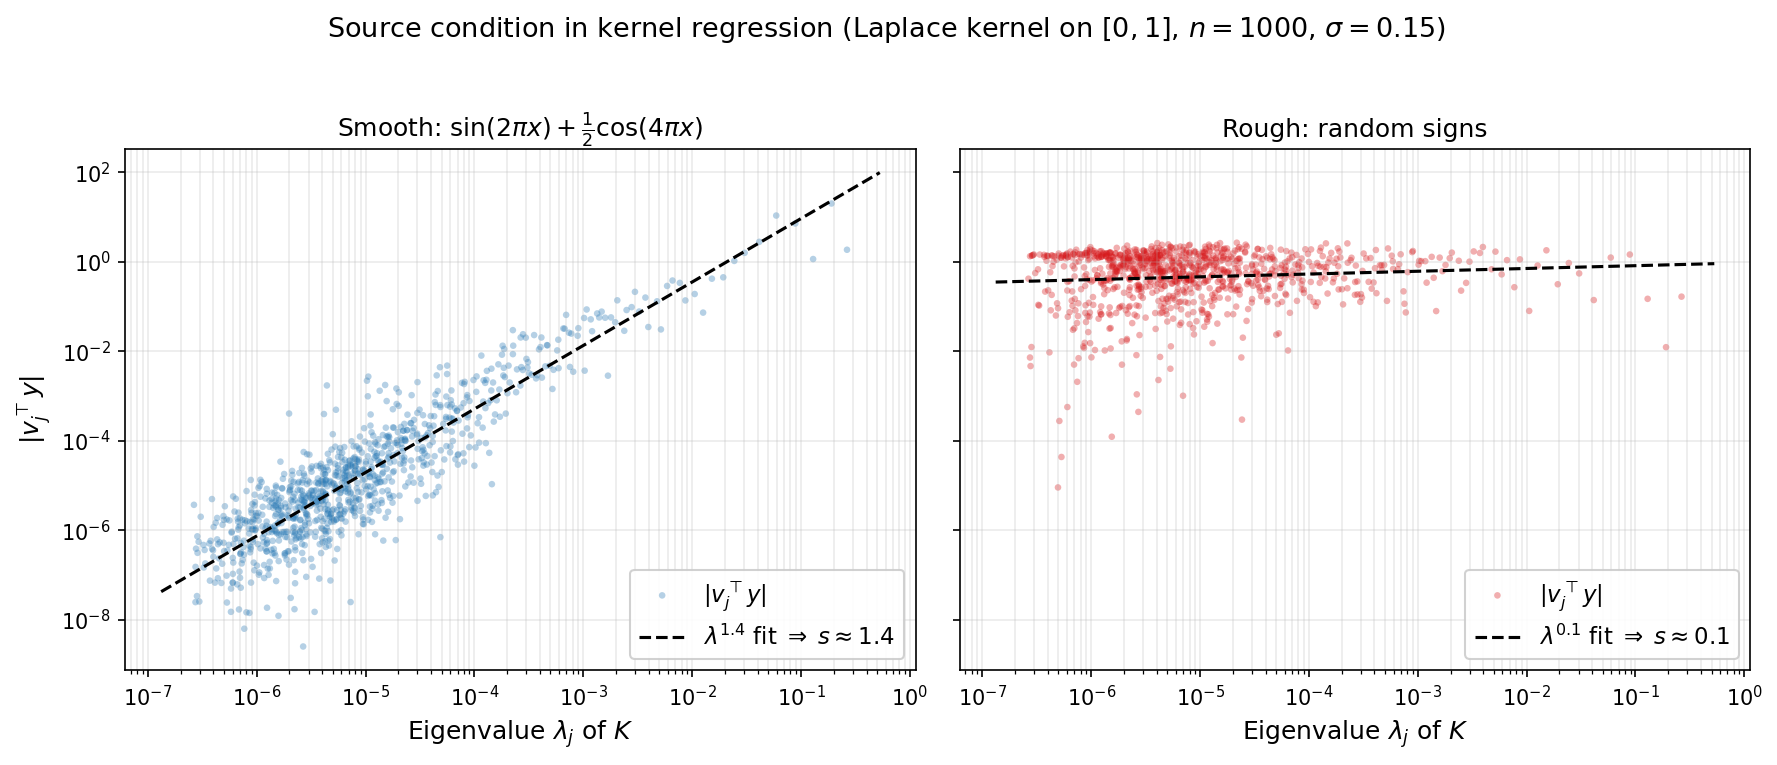
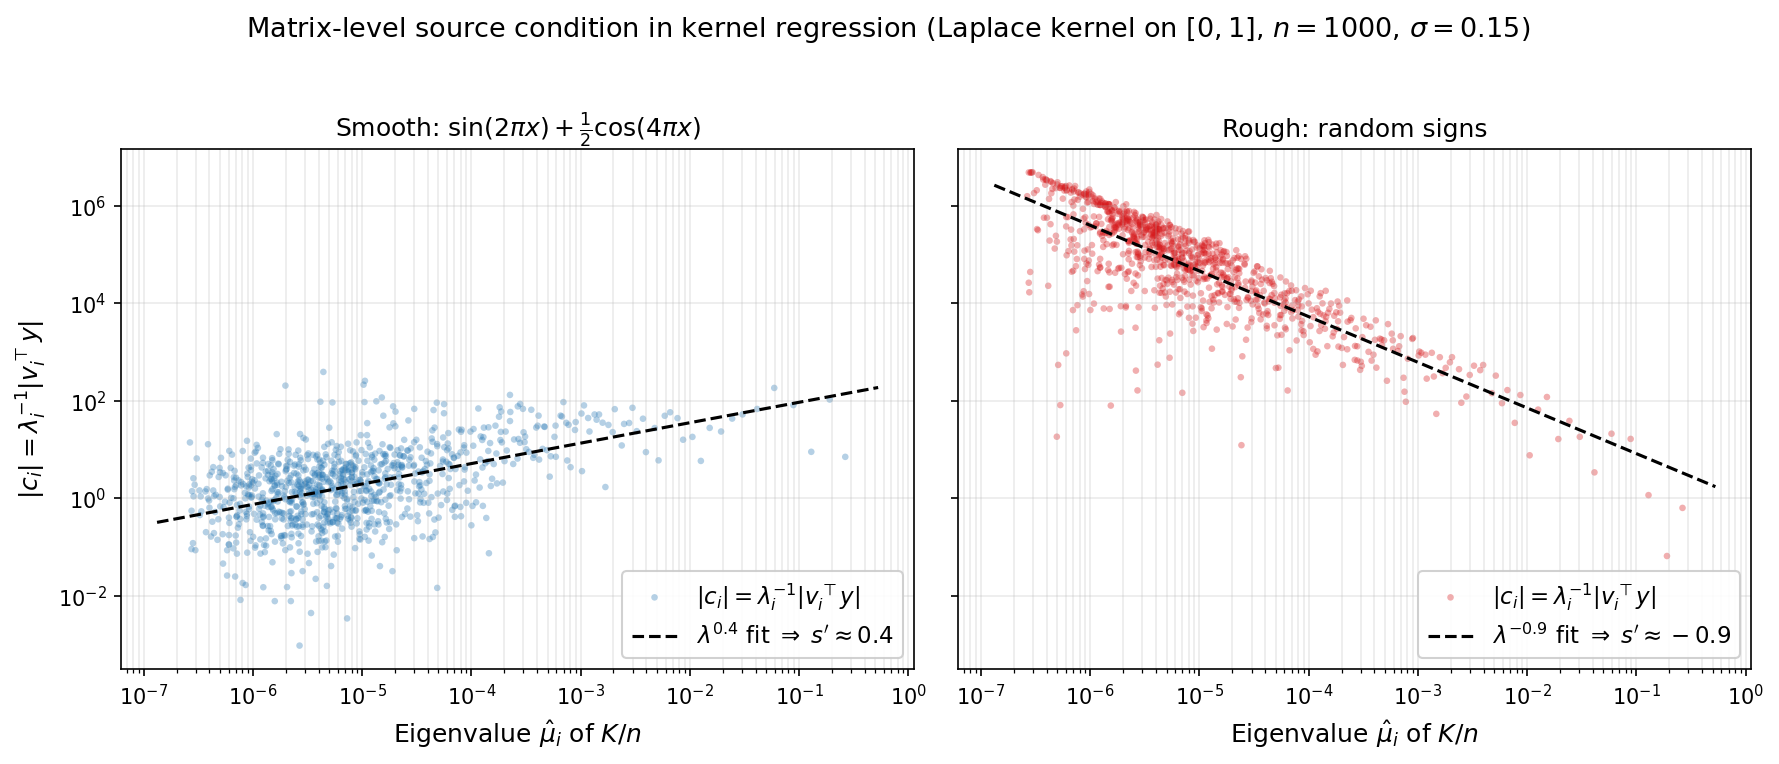
Fix source condition example: correct Sobolev equivalence, notation, and operator-to-matrix derivation
- Rename target function from f* to h to avoid notation clash with optimal value
- Replace incorrect pointwise Sobolev bound with correct weighted ℓ² condition
- Soften Fourier basis claim, add fractional Sobolev note
- Add careful derivation of operator-to-matrix translation (exponent shift s'=s-1)
- Plot matrix-level coefficients |c_i| instead of |v_i^T y|; use K/n eigenvalues
- Fix equation numbering so (13) appears before (14)
- Note s>1 threshold for improved convergence rate

Made-with: Cursor

diff --git a/scripts/plot_source_condition.py b/scripts/plot_source_condition.py
@@ -1,9 +1,9 @@
 """
-Illustrate the function-level source condition on [0,1] with uniform data.
+Illustrate the matrix-level source condition on [0,1] with uniform data.
 
-We plot the coefficients |v_j^T y| of the sampled target vector in the kernel
-eigenbasis. For a smooth target, these decay like lambda_j^s; for a rough
-target they do not.
+We plot the initial-error coefficients |c_i| = lambda_i^{-1} |v_i^T y| in the
+kernel eigenbasis.  For a smooth target, these decay like lambda_i^{s'} where
+s' = s - 1 is the matrix-level source exponent; for a rough target they do not.
 """
 
 import numpy as np
@@ -51,44 +51,48 @@ def main():
     proj_s = np.abs(eigvecs.T @ y_smooth)
     proj_r = np.abs(eigvecs.T @ y_rough)
 
+    # Matrix-level coefficients: |c_i| = lambda_i^{-1} |v_i^T y|
+    c_s = proj_s / eigvals
+    c_r = proj_r / eigvals
+
     keep = eigvals > 1e-6 * eigvals[0]
     ev = eigvals[keep]
-    ps = proj_s[keep]
-    pr = proj_r[keep]
+    cs = c_s[keep]
+    cr = c_r[keep]
 
-    s_smooth, b_s = fit_power_law(ev, ps)
-    s_rough, b_r = fit_power_law(ev, pr)
-    print(f"  smooth target: slope s ≈ {s_smooth:.2f}")
-    print(f"  rough target:  slope s ≈ {s_rough:.2f}")
+    s_smooth, b_s = fit_power_law(ev, cs)
+    s_rough, b_r = fit_power_law(ev, cr)
+    print(f"  smooth target: matrix-level slope s' ≈ {s_smooth:.2f}")
+    print(f"  rough target:  matrix-level slope s' ≈ {s_rough:.2f}")
 
-    make_plot(ev, ps, pr, s_smooth, s_rough, b_s, b_r, sigma, n)
+    make_plot(ev, cs, cr, s_smooth, s_rough, b_s, b_r, sigma, n)
 
 
-def make_plot(ev, ps, pr, s_smooth, s_rough, b_s, b_r, sigma, n):
+def make_plot(ev, cs, cr, s_smooth, s_rough, b_s, b_r, sigma, n):
     fig, axes = plt.subplots(1, 2, figsize=(12, 5), sharey=True)
 
-    for ax, proj, slope, intercept, s_val, label, color in [
-        (axes[0], ps, s_smooth, b_s, s_smooth,
+    for ax, coeffs, slope, intercept, s_val, label, color in [
+        (axes[0], cs, s_smooth, b_s, s_smooth,
          r"Smooth: $\sin(2\pi x)+\frac{1}{2}\cos(4\pi x)$", "#2c7bb6"),
-        (axes[1], pr, s_rough, b_r, s_rough, "Rough: random signs", "#d7191c"),
+        (axes[1], cr, s_rough, b_r, s_rough, "Rough: random signs", "#d7191c"),
     ]:
-        ax.scatter(ev, proj, s=10, alpha=0.35, color=color, edgecolors="none",
-                   label=r"$|v_j^\top y|$")
+        ax.scatter(ev, coeffs, s=10, alpha=0.35, color=color, edgecolors="none",
+                   label=r"$|c_i| = \lambda_i^{-1}|v_i^\top y|$")
 
         lam_range = np.array([ev[-1] * 0.5, ev[0] * 2])
         ax.loglog(lam_range, np.exp(intercept) * lam_range ** slope,
                   "k--", linewidth=1.5,
                   label=(rf"$\lambda^{{{slope:.1f}}}$ fit "
-                         rf"$\Rightarrow\; s \approx {s_val:.1f}$"))
+                         rf"$\Rightarrow\; s' \approx {s_val:.1f}$"))
 
-        ax.set_xlabel(r"Eigenvalue $\lambda_j$ of $K$", fontsize=12)
+        ax.set_xlabel(r"Eigenvalue $\hat\mu_i$ of $K/n$", fontsize=12)
         ax.set_title(label, fontsize=12)
         ax.legend(fontsize=11, framealpha=0.9, loc="lower right")
         ax.grid(True, alpha=0.25, which="both")
 
-    axes[0].set_ylabel(r"$|v_j^\top y|$", fontsize=12)
+    axes[0].set_ylabel(r"$|c_i| = \lambda_i^{-1}|v_i^\top y|$", fontsize=12)
     fig.suptitle(
-        rf"Source condition in kernel regression "
+        rf"Matrix-level source condition in kernel regression "
         rf"(Laplace kernel on $[0,1]$, $n={n}$, $\sigma={sigma}$)",
         fontsize=13, y=1.02,
     )

diff --git a/week1.md b/week1.md
@@ -778,7 +778,7 @@ In the eigenbasis, this means $c_i = \lambda_i^s\,\tilde{c}_i$ where $\tilde{c}_
 **Example (Source conditions in kernel regression).**
 The source condition arises naturally in kernel regression, where it is equivalent to a classical smoothness condition on the target function.
 
-**Setup.** Suppose data points $x_1,\dots,x_n$ are drawn i.i.d. from the uniform distribution on $[0,1]$, and the labels are generated by an unknown function: $y_i = f^\ast(x_i)$. As recalled in Section 5, kernel regression solves the linear system $K\alpha = y$, where $K_{ij} = k(x_i,x_j)$ is the kernel matrix and $y = (y_1,\dots,y_n)^\top$. The question is: when does the source condition hold for this problem, and what does it say about $f^\ast$? To answer this, we pass through the continuous integral operator associated with the kernel, which serves as the large-$n$ limit of the linear system.
+**Setup.** Suppose data points $x_1,\dots,x_n$ are drawn i.i.d. from the uniform distribution on $[0,1]$, and the labels are generated by an unknown function: $y_i = h(x_i)$. As recalled in Section 5, kernel regression solves the linear system $K\alpha = y$, where $K_{ij} = k(x_i,x_j)$ is the kernel matrix and $y = (y_1,\dots,y_n)^\top$. The question is: when does the source condition hold for this problem, and what does it say about $h$? To answer this, we pass through the continuous integral operator associated with the kernel, which serves as the large-$n$ limit of the linear system.
 
 **The integral operator.** The kernel $k$ and the data distribution $\nu$ define an **integral operator** $T\colon L^2(\nu) \to L^2(\nu)$ by
 $$
@@ -792,17 +792,33 @@ with eigenfunctions $\phi_i$ forming an orthonormal basis for $L^2(\nu)$. For th
 
 ![Eigenfunctions of the Laplace kernel operator](figures/laplace_eigenfunctions.gif)
 
-**Source condition as smoothness/lack of oscillations.** Any function $f^\ast \in L^2(\nu)$ can be expanded in the eigenbasis as $f^\ast = \sum_i \hat{f}_i\,\phi_i$. The source condition $f^\ast = T^s g$ with $\|g\|_{L^2(\nu)} \leq M$ reads, in the eigenbasis, as
+**Source condition as smoothness/lack of oscillations.** Any function $h \in L^2(\nu)$ can be expanded in the eigenbasis as $h = \sum_i \hat{h}_i\,\phi_i$. The source condition $h = T^s g$ with $\|g\|_{L^2(\nu)} \leq M$ reads, in the eigenbasis, as
 $$
-\hat{f}_i = \mu_i^s\,\hat{g}_i, \qquad \sum_i \hat{g}_i^2 \leq M^2,
+\hat{h}_i = \mu_i^s\,\hat{g}_i, \qquad \sum_i \hat{g}_i^2 \leq M^2,
 $$
-where $\hat{f}_i := \langle f^\ast, \phi_i \rangle_{L^2(\nu)}$ and $\hat{g}_i := \langle g, \phi_i \rangle_{L^2(\nu)}$ are the coefficients of $f^\ast$ and $g$ in the eigenbasis. This forces the coefficients of $f^\ast$ to decay at least as fast as $\mu_i^s$, that is $
-|\hat{f}_i| \leq M\,\mu_i^s.
-$ For most interesting kernels, the higher-indexed eigenfunctions have increasing oscillations/frequency.
+where $\hat{h}_i := \langle h, \phi_i \rangle_{L^2(\nu)}$ and $\hat{g}_i := \langle g, \phi_i \rangle_{L^2(\nu)}$ are the coefficients of $h$ and $g$ in the eigenbasis. Equivalently,
+$$
+\sum_i \mu_i^{-2s}\,|\hat{h}_i|^2 \leq M^2.
+$$
+This forces the coefficients of $h$ to decay at least as fast as $\mu_i^s$. For most interesting kernels, the higher-indexed eigenfunctions have increasing oscillations/frequency.
 
-There is also a close connection of the source condition to a quantitative measure of smoothness. This connection is cleanest in one dimension. For the Laplace kernel on $[0,1]$, the eigenvalues decay as $\mu_i \asymp i^{-2}$ and the eigenfunctions are, up to boundary effects, sines and cosines. Indeed, the coefficients $\hat{f}_i = \langle f^\ast, \phi_i \rangle$ are exactly the Fourier coefficients of $f^\ast$. The standard Fourier characterization of Sobolev spaces says that $f \in H^m$ (i.e., $f$ has $m$ square-integrable derivatives) if and only if $\sum_i i^{2m}|\hat{f}_i|^2 < \infty$. Since $\mu_i^s \asymp i^{-2s}$, the source condition $|\hat{f}_i| \leq M\,i^{-2s}$ is exactly the statement that $f^\ast \in H^{2s}$. Thus $s = 1/2$ corresponds to one derivative, $s = 1$ to two derivatives, and so on.
+There is also a close connection of the source condition to a quantitative measure of smoothness. This connection is cleanest in one dimension. For the Laplace kernel on $[0,1]$, the eigenvalues decay as $\mu_i \asymp i^{-2}$ and the eigenfunctions closely approximate sines and cosines (up to boundary effects), so the coefficients $\hat{h}_i = \langle h, \phi_i \rangle$ are closely related to the Fourier coefficients of $h$. The standard Fourier characterization of Sobolev spaces says that $f \in H^m$ (i.e., $f$ has $m$ square-integrable derivatives) if and only if $\sum_i i^{2m}|\hat{f}_i|^2 < \infty$. Since $\mu_i \asymp i^{-2}$, the source condition $\sum_i \mu_i^{-2s}|\hat{h}_i|^2 \leq M^2$ becomes $\sum_i i^{4s}|\hat{h}_i|^2 \leq M^2$, which is precisely the characterization of the Sobolev space $H^{2s}([0,1])$. Thus $s = 1/2$ corresponds to one derivative, $s = 1$ to two derivatives, and so on. (For non-integer values of $2s$, the space $H^{2s}$ is a fractional Sobolev space defined by this weighted $\ell^2$ condition on the Fourier coefficients.)
 
-**Numerical illustration.** The figure below demonstrates this on a Laplace kernel with $n = 1000$ points drawn uniformly from $[0,1]$. We plot $|v_i^\top y|$ versus $\lambda_i$ on a log-log scale. For function-level source conditions, the coefficients of the sampled target vector inherit the decay $|v_i^\top y| \propto \lambda_i^{s}$, so the slope of the log-log fit directly reveals $s$. For a smooth target $f(x) = \sin(2\pi x) + \tfrac12\cos(4\pi x)$ (left panel), the fitted slope is positive and the coefficients decay polynomially with $\lambda_i$, consistent with the source condition. For a rough target of random signs (right panel), the coefficients are essentially flat, showing no smoothness structure relative to the kernel.
+**From operator to matrix.** We now connect the function-level source condition to the finite-sample linear system. Let $\hat\mu_i$ and $v_i$ denote the eigenvalues and eigenvectors of the normalized kernel matrix $K/n$. As $n \to \infty$, $K/n \to T$ in operator norm, so $\hat\mu_i \approx \mu_i$ and $v_{ij} \approx \phi_i(x_j)/\sqrt{n}$. Consequently,
+$$
+v_i^\top y = \sum_{j=1}^n v_{ij}\,h(x_j) \;\approx\; \sqrt{n}\,\hat{h}_i.
+$$
+Now consider running gradient descent on the kernel regression system $K\alpha = y$, starting from $\alpha_0 = 0$. Since $K = n\,\mathrm{diag}(\hat\mu_i)$ in the eigenbasis, the initial error $e_0 = K^{-1}y$ has coefficients
+$$
+c_i \;:=\; v_i^\top e_0 \;=\; \frac{v_i^\top y}{n\hat\mu_i} \;\approx\; \frac{\hat{h}_i}{\sqrt{n}\,\mu_i}.
+$$
+If the function-level source condition $h = T^s g$ holds (so $\hat{h}_i = \mu_i^s\,\hat{g}_i$), this simplifies to
+$$
+c_i \;\approx\; \frac{\mu_i^{s-1}}{\sqrt{n}}\,\hat{g}_i.
+$$
+Since $c_i$ decays like $\mu_i^{s-1} \propto \hat\mu_i^{s-1}$, the matrix-level source condition $e_0 = K^{s'}w$ holds with exponent $s' = s - 1$. In other words, **a function-level source condition of order $s$ translates to a matrix-level source condition of order $s' = s-1$ for the system $K\alpha = y$.** In particular, one needs $s > 1$ (i.e., $h \in H^{2+\epsilon}$ for the Laplace kernel) for the source condition to improve the convergence rate beyond the baseline $O(k^{-1})$.
+
+**Numerical illustration.** The figure below demonstrates this on a Laplace kernel ($\sigma = 0.15$) with $n = 1000$ points drawn uniformly from $[0,1]$. We plot the initial-error coefficients $|c_i|$ versus $\hat\mu_i$ on a log-log scale; the slope of the log-log fit directly reveals the matrix-level source parameter $s'$ that enters Theorem 7.1. For a smooth target $h(x) = \sin(2\pi x) + \tfrac12\cos(4\pi x)$ (left panel), the fitted slope is $s' \approx 0.4$, so Theorem 7.1 gives rate $O(k^{-1.8})$. For a rough target of random signs (right panel), the fitted slope is $s' \approx -0.9$: the initial error is concentrated in the small-eigenvalue directions, so no source condition holds.
 
 ![Source condition in kernel regression](figures/source_condition_kernel.png)
 
@@ -816,7 +832,7 @@ We now show how the source condition improves the rate of convergence of gradien
 
 **Theorem 7.1 (GD with source condition).** *If the initial error satisfies $e_0 = A^s w$ for some $s \geq 0$, then GD with $\eta = 1/\beta$ satisfies*
 
-$$f(x_k) - f^\ast \leq \frac{\beta^{1+2s}}{2}\left(\frac{1+2s}{2k+1+2s}\right)^{1+2s}\|w\|^2. \tag{14}$$
+$$f(x_k) - f^\ast \leq \frac{\beta^{1+2s}}{2}\left(\frac{1+2s}{2k+1+2s}\right)^{1+2s}\|w\|^2. \tag{13}$$
 
 *In particular, $f(x_k) - f^\ast = O\!\left(\beta^{1+2s}\,k^{-(1+2s)}\,\|w\|^2\right)$ as $k \to \infty$.*
 
@@ -829,7 +845,7 @@ f(x_k) - f^\ast = \frac{1}{2}\sum_{i=1}^d \lambda_i^{1+2s}\,(1-\lambda_i/\beta)^
 $$
 and therefore
 $$
-f(x_k) - f^\ast \leq \frac{\|w\|^2}{2}\,\max_{\lambda \in [0,\beta]}\, \lambda^{1+2s}(1-\lambda/\beta)^{2k}. \tag{13}
+f(x_k) - f^\ast \leq \frac{\|w\|^2}{2}\,\max_{\lambda \in [0,\beta]}\, \lambda^{1+2s}(1-\lambda/\beta)^{2k}. \tag{14}
 $$
 
 It suffices to maximize $g(t) = t^{1+2s}(1-t)^{2k}$ over $t \in [0,1]$, with the identification $\lambda = \beta t$. Differentiating:
@@ -844,7 +860,7 @@ $$
 g(t^\ast) = \left(\frac{1+2s}{2k+1+2s}\right)^{1+2s}\left(\frac{2k}{2k+1+2s}\right)^{2k} \leq \left(\frac{1+2s}{2k+1+2s}\right)^{1+2s},
 $$
 
-where the inequality uses $(1-x)^{n} \leq 1$ for $x \in [0,1]$ and $n \geq 0$. Multiplying by $\beta^{1+2s}/2$ and $\|w\|^2$ gives the bound $(14)$. The asymptotic rate follows from $(1+2s)/(2k+1+2s) = O(1/k)$. <span style="float: right;">$\square$</span>
+where the inequality uses $(1-x)^{n} \leq 1$ for $x \in [0,1]$ and $n \geq 0$. Multiplying by $\beta^{1+2s}/2$ and $\|w\|^2$ gives the bound $(13)$. The asymptotic rate follows from $(1+2s)/(2k+1+2s) = O(1/k)$. <span style="float: right;">$\square$</span>
 
 The source condition can also be exploited by time-varying stepsizes. The relevant polynomial problem is now
 $$
@@ -861,12 +877,11 @@ f(x_k)-f^\ast
 \leq C_s\,\beta^{1+2s}\,k^{-2(1+2s)}\,\|w\|^2. \tag{15}
 $$
 
-*where $C_s>0$ depends only on $s$. In particular, the rate improves from $O(k^{-(1+2s)})$ for fixed-step GD to $O(k^{-2(1+2s)})$ for this source-aware time-varying schedule.*
+*where $C_s>0$ depends only on $s$. *
 
 </div>
 
-
-In principle, the stepsizes are given by the reciprocals of the roots of the relevant Jacobi polynomial. Unlike the Chebyshev roots, these roots do not have a simple closed form. This is not a serious drawback, however, because the same convergence rate is inherited by the conjugate gradient method, which achieves it adaptively without needing the stepsizes explicitly.
+In particular, the rate improves from $O(k^{-2})$ for Chebyshev accelerated GD without the source condition to $O(k^{-2(1+2s)})$ when the source condition holds. In principle, the stepsizes in the theorem are given by the reciprocals of the roots of the relevant Jacobi polynomial. Unlike the Chebyshev roots, these roots do not have a simple closed form. This is not a serious drawback, however, because the same convergence rate is inherited by the conjugate gradient method, which achieves it adaptively without needing the stepsizes explicitly.
 
 <div style="background-color: #eef6fc; border-left: 4px solid #2980b9; padding: 1em 1.2em; margin: 1.5em 0; border-radius: 4px;" markdown="1">
 
@@ -881,7 +896,8 @@ $$
 
 </div>
 
-*Proof.* For any horizon $k$, the source-aware stepsizes $\eta_1,\dots,\eta_k$ from Theorem 7.2 produce an iterate in $x_0+\mathcal{K}_k(A,r_0)$, whereas CG minimizes $f$ over that entire affine subspace. Therefore $f(x_k^{\mathrm{CG}})\leq f(x_k^{\mathrm{GD}})$, and the bound follows from Theorem 7.2. Finite termination follows exactly as in Theorem 6.3. <span style="float: right;">$\square$</span>
+
+
 
 
 ### The spectral integral
